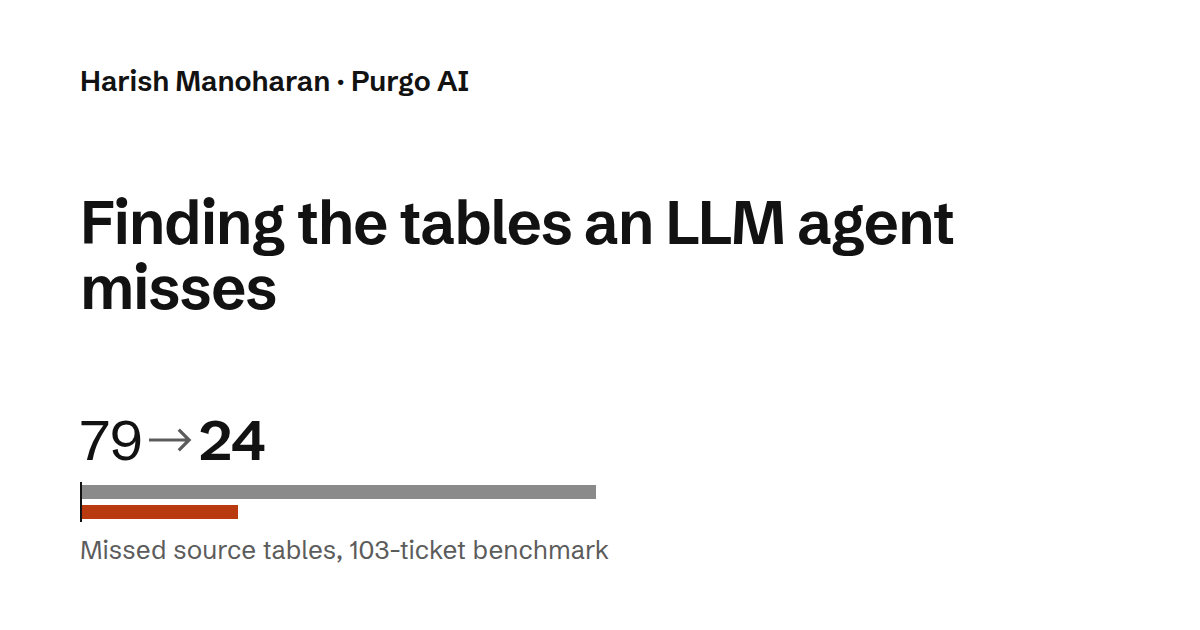
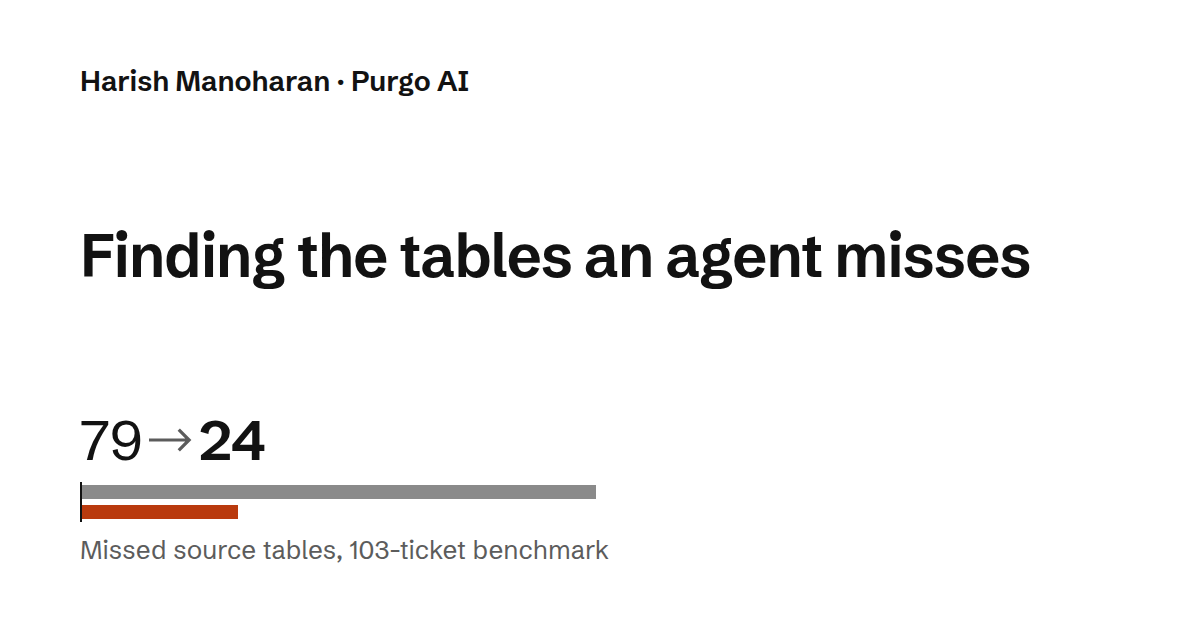
Say agents, not LLM agents; describe the agent as the LangGraph pipeline it is in the case study

Changed region(s): [[0.0617, 0.3016, 0.8633, 0.5127]]

diff --git a/tests/dist/home.test.ts b/tests/dist/home.test.ts
@@ -7,9 +7,9 @@ const main = () => text(doc.querySelector('main'));
 
 describe('home: head', () => {
   it('uses the positioning title and description', () => {
-    expect(text(doc.querySelector('title'))).toBe('Harish Manoharan: software engineer, LLM agents');
+    expect(text(doc.querySelector('title'))).toBe('Harish Manoharan: software engineer building agents');
     expect(doc.querySelector('meta[name="description"]')?.getAttribute('content')).toBe(
-      'Software engineer at Purgo AI, building LLM agents for data engineering. M.S. CS, UT Dallas; IIT Madras.',
+      'Software engineer at Purgo AI, building agents for data engineering. M.S. CS, UT Dallas; IIT Madras.',
     );
     expect(doc.querySelector('meta[name="description"]')?.getAttribute('content')?.length).toBeLessThanOrEqual(160);
   });
@@ -37,7 +37,7 @@ describe('home: intro', () => {
 
   it('names the employer and what he builds in a short lede, not one narrow sub-area', () => {
     const lede = text(doc.querySelector('.lede'));
-    expect(lede).toBe('Software engineer at Purgo AI, building LLM agents.');
+    expect(lede).toBe('Software engineer at Purgo AI, building agents.');
     expect(lede).not.toContain('retrieval and evaluation');
   });
 

diff --git a/tests/dist/writeups.test.ts b/tests/dist/writeups.test.ts
@@ -5,7 +5,7 @@ describe('/work/agent-retrieval/', () => {
   const doc = loadPage('work/agent-retrieval/index.html');
 
   it('has the title, dek, meta, scope note and Work marked current', () => {
-    expect(text(doc.querySelector('h1'))).toBe('Finding the tables an LLM agent misses');
+    expect(text(doc.querySelector('h1'))).toBe('Finding the tables an agent misses');
     expect(text(doc.querySelector('.dek'))).toContain('from 79 to 24');
     const side = text(doc.querySelector('.side'));
     for (const s of ['Purgo AI', 'min read', 'Updated', 'My part.', 'Built with.']) expect(side).toContain(s);
@@ -96,7 +96,7 @@ describe('/work/llm-evaluation/', () => {
   it('ends with one plain link back to the other published write-up', () => {
     const next = doc.querySelector('.writeup-body > .writeup-next');
     expect([...next!.querySelectorAll('a')].map((a) => a.getAttribute('href'))).toEqual(['/work/agent-retrieval/']);
-    expect(text(next)).toBe('Next: Finding the tables an LLM agent misses');
+    expect(text(next)).toBe('Next: Finding the tables an agent misses');
   });
 
   it('credits the colleague who built the first scaffold', () => {

diff --git a/src/data/site.ts b/src/data/site.ts
@@ -6,9 +6,9 @@ export const site = {
   linkedin: 'https://www.linkedin.com/in/harishm17/',
   resume: '/HarishManoharan.pdf',
   location: 'San Francisco Bay Area',
-  title: 'Harish Manoharan: software engineer, LLM agents',
+  title: 'Harish Manoharan: software engineer building agents',
   description:
-    'Software engineer at Purgo AI, building LLM agents for data engineering. M.S. CS, UT Dallas; IIT Madras.',
+    'Software engineer at Purgo AI, building agents for data engineering. M.S. CS, UT Dallas; IIT Madras.',
   updated: { iso: '2026-10', label: 'October 2026' },
   og: { home: '/og/home-2026-10.png' },
 } as const;

diff --git a/src/data/work.ts b/src/data/work.ts
@@ -48,7 +48,7 @@ export const work: WorkItem[] = [
   {
     id: 'agent-retrieval',
     group: 'purgo',
-    title: 'Finding the tables an LLM agent misses',
+    title: 'Finding the tables an agent misses',
     context: 'Purgo AI',
     years: '2026',
     summary:

diff --git a/tests/dist/pages.test.ts b/tests/dist/pages.test.ts
@@ -20,6 +20,8 @@ const BANNED = [
   /\bclick\b/i,
   /this page (covers|lists|shows|has)/i,
   /in one place/i,
+  // Say "agents", not "LLM agents": the context is already AI (Harish, 2026-10-09).
+  /\bLLM agents?\b/i,
 ];
 
 describe('every content page', () => {
